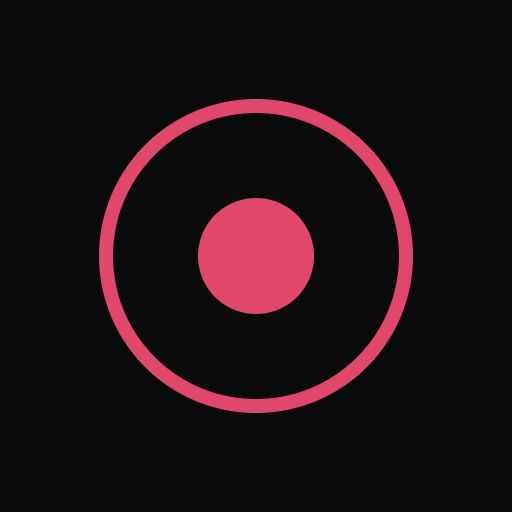
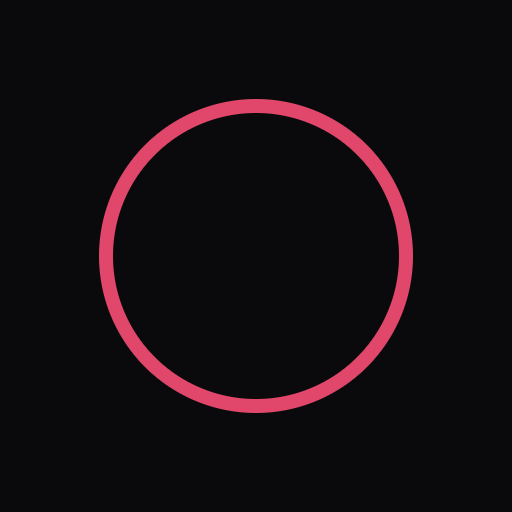
feat: 轮盘改为通体玫红，中心圆保留深黑

Changed region(s): [[0.375, 0.375, 0.625, 0.625]]

diff --git a/styles/ipod.css b/styles/ipod.css
@@ -107,12 +107,11 @@ html, body {
 #wheel {
   position: relative; width: 62vw; max-width: 270px; aspect-ratio: 1;
   margin-bottom: 5vh; border-radius: 50%;
-  background: radial-gradient(circle at 50% 35%, #17171c, #0c0c0f);
-  box-shadow: inset 0 1px 0 rgba(255,255,255,0.05), inset 0 0 0 1px rgba(224,71,107,0.18),
-              0 10px 30px rgba(0,0,0,0.6);
+  background: radial-gradient(circle at 50% 35%, #ff5a7e, #c92d52);
+  box-shadow: inset 0 1px 0 rgba(255,255,255,0.12), 0 10px 30px rgba(0,0,0,0.6);
   touch-action: none;
 }
-.wheel-label { position: absolute; color: var(--text-dim); font-size: 13px; letter-spacing: 1px; pointer-events: none; }
+.wheel-label { position: absolute; color: rgba(255,255,255,0.9); font-size: 13px; letter-spacing: 1px; pointer-events: none; text-shadow: 0 1px 4px rgba(0,0,0,0.3); }
 .label-menu { top: 12px; left: 50%; transform: translateX(-50%); }
 .label-play { bottom: 12px; left: 50%; transform: translateX(-50%); }
 .label-prev { left: 14px; top: 50%; transform: translateY(-50%); }
@@ -124,7 +123,7 @@ html, body {
   box-shadow: inset 0 0 0 1px rgba(255,255,255,0.05), 0 4px 10px rgba(0,0,0,0.5);
   transition: box-shadow .15s;
 }
-#wheel:active #wheel-center { box-shadow: inset 0 0 0 1px var(--rose), 0 0 16px var(--rose-glow); }
+#wheel:active #wheel-center { box-shadow: inset 0 0 0 1px #fff, 0 0 20px rgba(255,255,255,0.4); }
 /* 导入按钮(隐藏入口) */
 #import-btn {
   position: absolute; top: calc(env(safe-area-inset-top) + 8px); right: 18px;